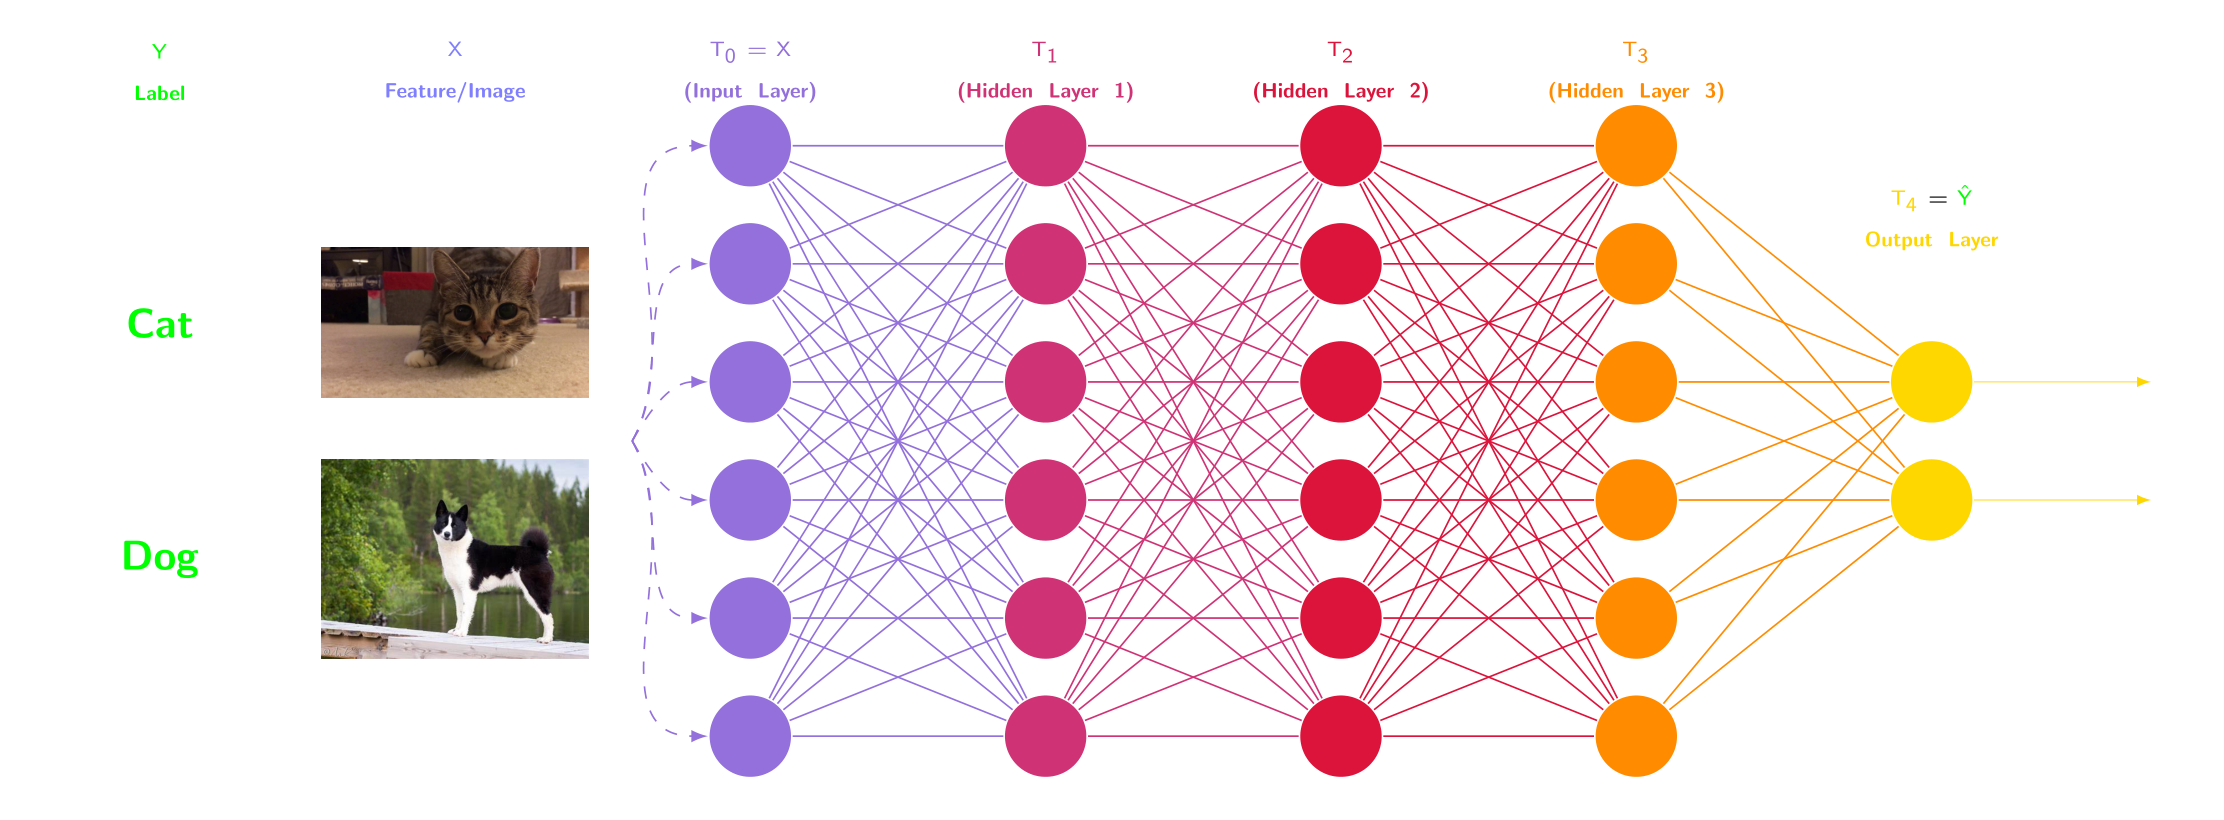
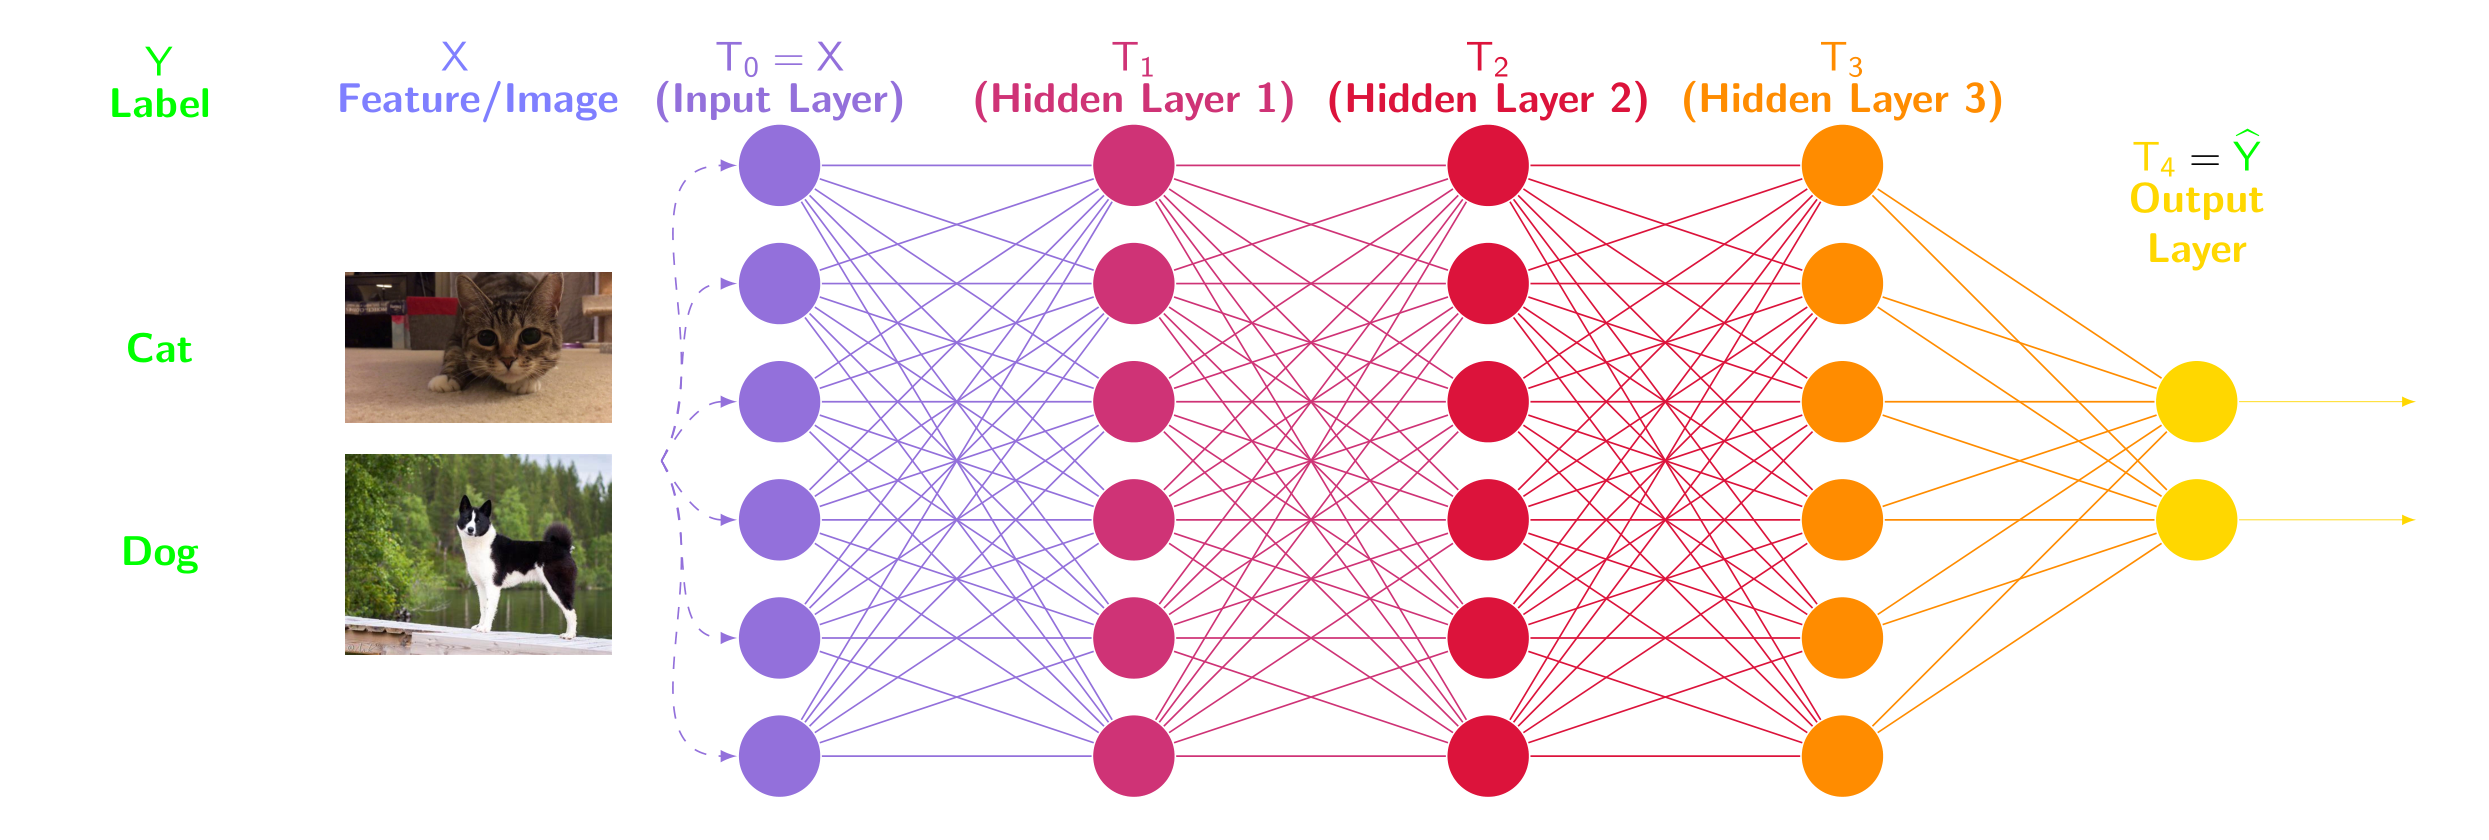
chore(style): scale text and graphic

diff --git a/TikZ/NeuralNetwork/main.tex b/TikZ/NeuralNetwork/main.tex
@@ -30,15 +30,15 @@
             % Input layer
             \node[inp] (inp-\y) at (0, \y) {};
             % Hidden layer 1
-            \node[hl1] (hl1-\y) at (2.5, \y) {};
+            \node[hl1] (hl1-\y) at (3, \y) {};
             % Hidden layer 2
-            \node[hl2] (hl2-\y) at (5, \y) {};
+            \node[hl2] (hl2-\y) at (6, \y) {};
             % Hidden layer 3
-            \node[hl3] (hl3-\y) at (7.5, \y) {};
+            \node[hl3] (hl3-\y) at (9, \y) {};
         }
         \foreach \y in {2, 3}{
             % Output layer
-            \node[op, pin={[pin edge={-latex, gold}, pin distance=1.5cm]right:$ $}] (op-\y) at (10, \y) {};
+            \node[op, pin={[pin edge={-latex, gold}, pin distance=1.5cm]right:$ $}] (op-\y) at (12, \y) {};
         }
         % draw connecting lines
         \foreach \x in {0, 1, 2, 3, 4, 5}{
@@ -71,16 +71,16 @@
             hl2-5/T_2/hl2/(Hidden Layer 2)/crimson,
             hl3-5/T_3/hl3/(Hidden Layer 3)/darkorange%
         }{
-            \node[anchor=south, text width=2cm, text centered, inner sep=0pt] (\label) at (\pos.north) {\color{\col}\tiny$\mathsf{\layer}$ \\[-2pt] \name};
+            \node[anchor=south, text width=3cm, text centered, inner sep=0pt] (\label) at (\pos.north) {\color{\col}$\mathsf{\layer}$ \\[-2pt] \name};
         }
-        \node[anchor=south, text width=2cm, text centered, inner sep=0pt, yshift=0.75cm] at (op-3.north) {\tiny$\mathsf{\textcolor{gold}{T_4}=\textcolor{green}{\hat{Y}}}$ \\[-2pt] \textcolor{gold}{Output Layer}};
-        \node[text width=2cm, text centered, inner sep=0pt, xshift=-1.5cm, color=blue!50] (feature/image) [left of=inp] {\tiny$\mathsf{X}$ \\[-2pt] Feature/Image};
-        \node[text width=2cm, text centered, inner sep=0pt, xshift=-1.5cm, color=green] (label) [left of=feature/image] {\tiny$\mathsf{Y}$ \\[-2pt] Label};
+        \node[anchor=south, text width=2cm, text centered, inner sep=0pt, yshift=0.75cm] at (op-3.north) {$\mathsf{\textcolor{gold}{T_4}=\textcolor{green}{\widehat{Y}}}$ \\[-2pt] \textcolor{gold}{Output Layer}};
+        \node[text width=2cm, text centered, inner sep=0pt, xshift=-1.75cm, color=blue!50] (feature/image) [left of=inp] {$\mathsf{X}$ \\[-2pt] Feature/Image};
+        \node[text width=2cm, text centered, inner sep=0pt, xshift=-1.5cm, color=green] (label) [left of=feature/image] {$\mathsf{Y}$ \\[-2pt] Label};
         % add names of image
-        \node[anchor=center, color=green] at (-5, 3.5) {Cat};
-        \node[anchor=center, color=green] at (-5, 1.5) {Dog};
+        \node[below of = label, yshift=-1.25cm, color=green] {Cat};
+        \node[below of = label, yshift=-3cm, color=green] {Dog};
         % add images
-        \node[anchor=center] at (-2.5, 3.5){\includegraphics[scale=0.05]{./images/cat.jpg}};
-        \node[anchor=center] at (-2.5, 1.5) {\includegraphics[scale=0.135]{./images/dog.jpg}};
+        \node[below of = feature/image, yshift=-1.25cm, xshift=0.2cm] {\includegraphics[scale=0.05]{./images/cat.jpg}};
+        \node[below of = feature/image, yshift=-3cm, xshift=0.2cm] {\includegraphics[scale=0.135]{./images/dog.jpg}};
     \end{tikzpicture}
 \end{document}
